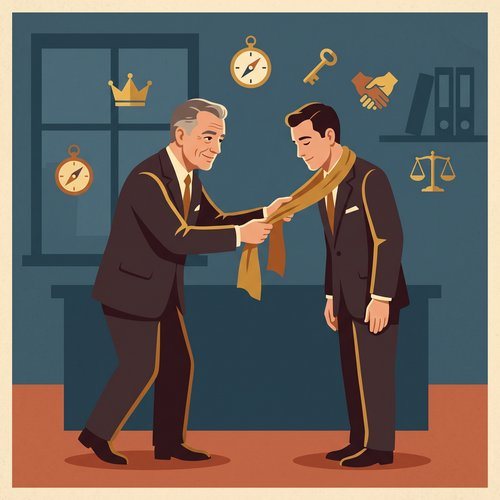
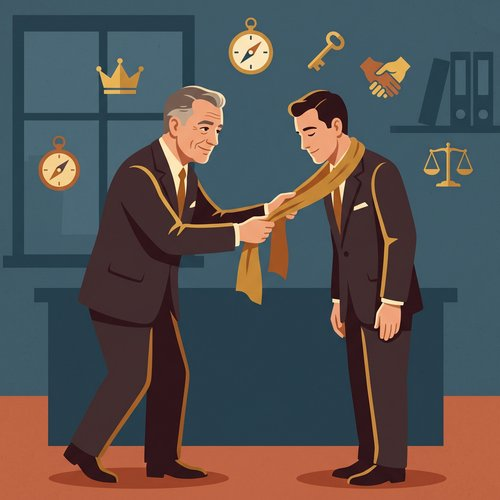
Conseils : fenêtre de détail avec illustration et podcast (suppression mini BD), visuel SCARF sans cadre
Claude-Session: https://claude.ai/code/session_01B9XFZpz7SbGi8yULiDWvZa

diff --git a/assets/main.js b/assets/main.js
@@ -202,7 +202,7 @@ const I18N = {
       cardAssistantTitle: "Assistant IA",
       cardAssistantDesc: "Le coin interactif : réponses formulées à partir de la base de connaissance.",
       cardConseilsTitle: "Conseils",
-      cardConseilsDesc: "Le coin podcast : conseils par thèmes, recherche, + podcast audio et mini-BD.",
+      cardConseilsDesc: "Le coin podcast : conseils par thèmes, recherche, + podcast audio et illustration.",
       cardBibliothequeTitle: "Bibliothèque",
       cardBibliothequeDesc: "Le coin lecture : recueil de livres recommandés pour entrepreneurs.",
     },
@@ -234,7 +234,7 @@ const I18N = {
     conseils: {
       pill: "Le coin podcast",
       title: "Conseils",
-      lead: "Recherche par thèmes. Chaque entrée se lit, s’écoute (voix), et se retient (mini BD).",
+      lead: "Recherche par thèmes. Chaque entrée se lit, s’écoute (podcast) et s’illustre.",
       searchLabel: "Rechercher",
       searchPlaceholder: "Rechercher un conseil (ex: pricing, focus…)",
       filtersLabel: "Filtres",
@@ -245,7 +245,7 @@ const I18N = {
       filterTeam: "Équipe",
       modalLabel: "Détail du conseil",
       audioLabel: "Podcast audio",
-      audioTitle: "Podcast audio (voix)",
+      audioTitle: "Podcast audio",
       audioHint: "Lecture via synthèse vocale du navigateur.",
       audioPlay: "Lire",
       audioStop: "Stop",
@@ -331,7 +331,7 @@ const I18N = {
       conseils: {
         title: "Conseils — Entrepreneur & IA",
         description:
-          "Le coin podcast : conseils par thèmes avec recherche. Chaque entrée a un format audio et une mini bande dessinée.",
+          "Le coin podcast : conseils par thèmes avec recherche. Chaque entrée a un podcast audio et une illustration.",
       },
       bibliotheque: {
         title: "Bibliothèque — Entrepreneur & IA",
@@ -384,7 +384,7 @@ const I18N = {
       cardAssistantTitle: "AI Assistant",
       cardAssistantDesc: "Interactive corner: answers formulated from the knowledge base.",
       cardConseilsTitle: "Advice",
-      cardConseilsDesc: "Podcast corner: theme-based advice, search, + audio and mini comic.",
+      cardConseilsDesc: "Podcast corner: theme-based advice, search, + audio podcast and illustration.",
       cardBibliothequeTitle: "Library",
       cardBibliothequeDesc: "Reading corner: a collection of recommended books for entrepreneurs.",
     },
@@ -416,7 +416,7 @@ const I18N = {
     conseils: {
       pill: "Podcast corner",
       title: "Advice",
-      lead: "Search by theme. Each entry can be read, listened to (voice), and remembered (mini comic).",
+      lead: "Search by theme. Each entry can be read, listened to (podcast), and comes with an illustration.",
       searchLabel: "Search",
       searchPlaceholder: "Search a tip (e.g., pricing, focus…)",
       filtersLabel: "Filters",
@@ -427,7 +427,7 @@ const I18N = {
       filterTeam: "Team",
       modalLabel: "Advice details",
       audioLabel: "Audio podcast",
-      audioTitle: "Audio podcast (voice)",
+      audioTitle: "Audio podcast",
       audioHint: "Playback via your browser’s text-to-speech.",
       audioPlay: "Play",
       audioStop: "Stop",
@@ -513,7 +513,7 @@ const I18N = {
       conseils: {
         title: "Advice — Entrepreneur & AI",
         description:
-          "Podcast corner: theme-based advice with search. Each entry includes audio and a mini comic strip.",
+          "Podcast corner: theme-based advice with search. Each entry includes an audio podcast and an illustration.",
       },
       bibliotheque: {
         title: "Library — Entrepreneur & AI",
@@ -1250,14 +1250,14 @@ function setupConseilsPage() {
   const modalTitle = $("#modalTitle");
   const modalTheme = $("#modalTheme");
   const modalBody = $("#modalBody");
-  const speakBtn = $("#speakBtn");
-  const stopSpeakBtn = $("#stopSpeakBtn");
-  const comic = $("#comic");
+  const modalImage = $("#modalImage");
+  const modalFigure = $("#modalFigure");
+  const modalAudio = $("#modalAudio");
 
   let currentConseil = null;
 
   // Only set up modal if all elements exist
-  if (modal && modalTitle && modalBody && speakBtn && stopSpeakBtn) {
+  if (modal && modalTitle && modalBody) {
 
   const openModal = (conseil) => {
     currentConseil = conseil;
@@ -1269,30 +1269,27 @@ function setupConseilsPage() {
     if (modalTheme) modalTheme.textContent = (conseil.tags && conseil.tags[0]) || "";
     if (modalBody) modalBody.textContent = conseil.descriptif_long || conseil.resume_long || conseil.resume_court || "";
 
-    // Comic/BD
-    if (comic) {
-      comic.innerHTML = "";
-      const bdPanels = Array.isArray(conseil.bd) ? conseil.bd : [];
-      if (bdPanels.length > 0) {
-        bdPanels.forEach((panel) => {
-          const panelDiv = document.createElement("div");
-          panelDiv.className = "comicPanel";
+    // Illustration
+    if (modalImage && modalFigure) {
+      if (conseil.nom_image) {
+        modalImage.src = `../${conseil.nom_image}`;
+        modalImage.alt = t("conseils.imageAlt", { title: conseil.titre || "" });
+        modalFigure.hidden = false;
+      } else {
+        modalImage.removeAttribute("src");
+        modalFigure.hidden = true;
+      }
+    }
 
-          if (panel.image) {
-            const img = document.createElement("img");
-            img.src = `../${panel.image}`;
-            img.alt = "";
-            img.style.maxWidth = "100%";
-            img.style.borderRadius = "4px";
-            panelDiv.appendChild(img);
-          }
-
-          const p = document.createElement("p");
-          p.textContent = String(panel.texte || "");
-          panelDiv.appendChild(p);
-
-          comic.appendChild(panelDiv);
-        });
+    // Podcast audio
+    if (modalAudio) {
+      modalAudio.pause();
+      if (conseil.nom_fichier_audio) {
+        modalAudio.src = `../${conseil.nom_fichier_audio}`;
+        modalAudio.closest(".audioBox").hidden = false;
+      } else {
+        modalAudio.removeAttribute("src");
+        modalAudio.closest(".audioBox").hidden = true;
       }
     }
 
@@ -1325,38 +1322,10 @@ function setupConseilsPage() {
     if (conseil) openModal(conseil);
   });
 
-  // Speech synthesis handlers
-  speakBtn.addEventListener("click", () => {
-    if (!currentConseil) return;
-
-    // Pause all audio before starting speech
-    pauseAllAudio();
-
-    const textToSpeak = currentConseil.descriptif_long || currentConseil.resume_long || currentConseil.resume_court || "";
-    if (!textToSpeak || !window.speechSynthesis) return;
-
-    const utterance = new SpeechSynthesisUtterance(textToSpeak);
-    utterance.lang = currentLang === "en" ? "en-US" : "fr-FR";
-    utterance.rate = 1.0;
-    utterance.pitch = 1.0;
-
-    currentSpeech = utterance;
-    window.speechSynthesis.speak(utterance);
-  });
-
-  stopSpeakBtn.addEventListener("click", () => {
-    if (window.speechSynthesis) {
-      window.speechSynthesis.cancel();
-      currentSpeech = null;
-    }
-  });
-
   // Clean up when modal closes
   modal.addEventListener("close", () => {
-    if (window.speechSynthesis && window.speechSynthesis.speaking) {
-      window.speechSynthesis.cancel();
-    }
-    currentSpeech = null;
+    if (modalAudio) modalAudio.pause();
+    currentAudio = null;
   });
   }
 

diff --git a/pages/conseils.html b/pages/conseils.html
@@ -6,7 +6,7 @@
     <title>Conseils — Entrepreneur & IA</title>
     <meta
       name="description"
-      content="Le coin podcast : conseils par thèmes avec recherche. Chaque entrée a un format audio et une mini bande dessinée."
+      content="Le coin podcast : conseils par thèmes avec recherche. Chaque entrée a un podcast audio et une illustration."
     />
     <link rel="icon" type="image/svg+xml" href="../img/favicon-ai.svg" />
     <link rel="stylesheet" href="../assets/styles.css" />
@@ -47,7 +47,7 @@
           <p class="pill" data-i18n="conseils.pill">Le coin podcast</p>
           <h1 data-i18n="conseils.title">Conseils</h1>
           <p class="lead" data-i18n="conseils.lead">
-            Recherche par thèmes. Chaque entrée se lit, s’écoute (voix), et se retient (mini BD).
+            Recherche par thèmes. Chaque entrée se lit, s’écoute (podcast) et s’illustre.
           </p>
         </div>
       </section>
@@ -100,23 +100,18 @@
           </div>
           <div class="modalBody">
             <p class="muted" id="modalBody"></p>
-            <div class="twoCol">
+            <div class="twoCol modalMedia">
+              <figure class="modalFigure" id="modalFigure">
+                <img id="modalImage" alt="" />
+              </figure>
               <section
                 class="audioBox"
                 aria-label="Podcast audio"
                 data-i18n-key="conseils.audioLabel"
                 data-i18n-attr="aria-label"
               >
-                <h3 data-i18n="conseils.audioTitle">Podcast audio (voix)</h3>
-                <p class="muted tiny" data-i18n="conseils.audioHint">Lecture via synthèse vocale du navigateur.</p>
-                <div class="audioActions">
-                  <button class="button primary" type="button" id="speakBtn" data-i18n="conseils.audioPlay">Lire</button>
-                  <button class="button" type="button" id="stopSpeakBtn" data-i18n="conseils.audioStop">Stop</button>
-                </div>
-              </section>
-              <section class="comicBox" aria-label="Bande dessinée" data-i18n-key="conseils.comicLabel" data-i18n-attr="aria-label">
-                <h3 data-i18n="conseils.comicTitle">Mini BD</h3>
-                <div class="comic" id="comic"></div>
+                <h3 data-i18n="conseils.audioTitle">Podcast audio</h3>
+                <audio id="modalAudio" controls preload="metadata" data-audio-card></audio>
               </section>
             </div>
           </div>

diff --git a/index.html b/index.html
@@ -99,7 +99,7 @@
               </a>
               <a class="infoCard infoCardLink" href="pages/conseils.html">
                 <h3 data-i18n="home.cardConseilsTitle">Conseils</h3>
-                <p data-i18n="home.cardConseilsDesc">Le coin podcast : conseils par thèmes, recherche, + podcast audio et mini-BD.</p>
+                <p data-i18n="home.cardConseilsDesc">Le coin podcast : conseils par thèmes, recherche, + podcast audio et illustration.</p>
               </a>
               <a class="infoCard infoCardLink" href="pages/bibliotheque.html">
                 <h3 data-i18n="home.cardBibliothequeTitle">Bibliothèque</h3>

diff --git a/assets/styles.css b/assets/styles.css
@@ -969,6 +969,27 @@ input:focus-visible {
   margin: 0 0 8px;
 }
 
+.modalMedia {
+  align-items: start;
+}
+
+.modalFigure {
+  margin: 0;
+}
+
+.modalFigure img {
+  display: block;
+  width: 100%;
+  max-width: 420px;
+  height: auto;
+  border-radius: 8px;
+}
+
+.audioBox audio {
+  width: 100%;
+  margin-top: 4px;
+}
+
 .audioActions {
   display: flex;
   gap: 10px;
